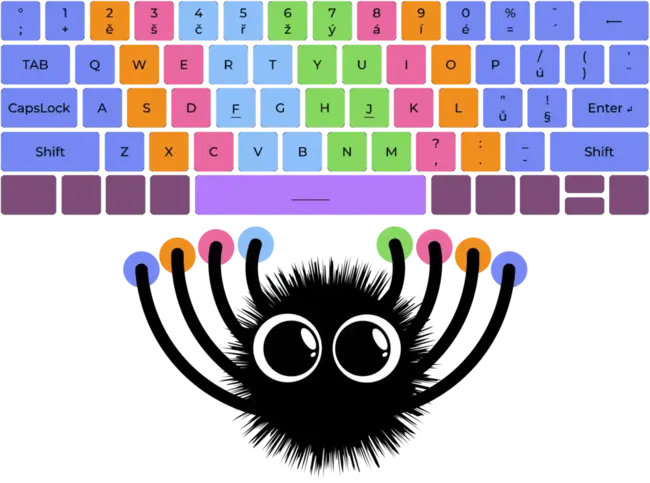
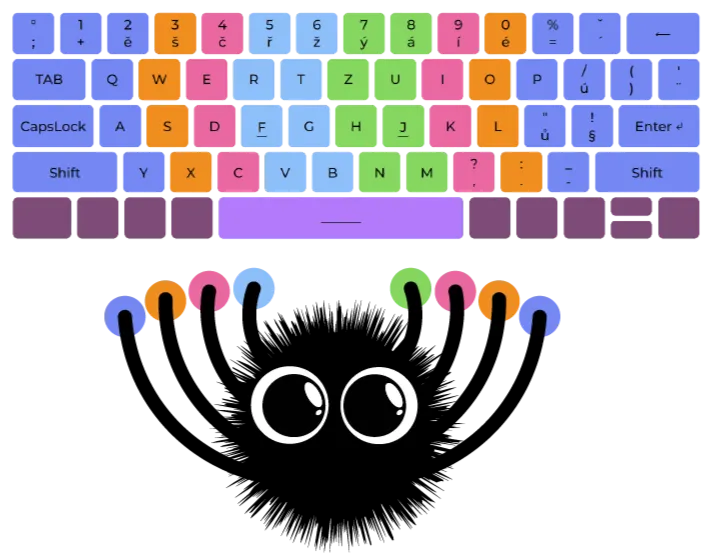
změna layoutu klávesnice, změna kalkulace překlepů

diff --git a/frontend/src/components/Psani.vue b/frontend/src/components/Psani.vue
@@ -21,7 +21,7 @@ const props = defineProps<{
 const counter = ref(0)
 const counterSlov = ref(0)
 const preklepy = ref(0)
-const opravene = new Map<String, Boolean>()
+const opravene = ref(0)
 const timerZacatek = ref(0)
 const cas = ref(0)
 const textElem = ref<HTMLInputElement>()
@@ -40,7 +40,7 @@ let interval: number
 const celyPsani = ref()
 
 const casFormat = computed(() => {
-    return cas.value < 60 ? Math.floor(cas.value).toString() : `${Math.floor(cas.value / 60)}:${cas.value % 60 < 10 ? "0" + Math.floor(cas.value % 60).toString() : Math.floor(cas.value % 60)}`
+    return cas.value < 60 ? Math.floor(cas.value).toString() + "s" : `${Math.floor(cas.value / 60)}:${cas.value % 60 < 10 ? "0" + Math.floor(cas.value % 60).toString() : Math.floor(cas.value % 60)}`
 })
 
 const progress = computed(() => {
@@ -93,13 +93,13 @@ function backPismeno() {
         counter.value = props.text[counterSlov.value].length - 1
         if (aktivniPismeno.value.spatne === 1) {
             preklepy.value--
-            opravene.set(`${counterSlov.value}${counter.value}`, true)
+            opravene.value++
         }
     } else {
         counter.value--
         if (aktivniPismeno.value.spatne === 1) {
             preklepy.value--
-            opravene.set(`${counterSlov.value}${counter.value}`, true)
+            opravene.value++
         }
     }
     emit("pise")
@@ -161,7 +161,7 @@ function klik(this: any, e: KeyboardEvent) {
         calcCas() // naposledy
         document.removeEventListener("keypress", klik)
         document.removeEventListener("keydown", specialniKlik)
-        emit("konec", cas.value, opravene.size, preklepy.value, chybyPismenka)
+        emit("konec", cas.value, opravene.value, preklepy.value, chybyPismenka)
         restart()
     }
 
@@ -278,7 +278,7 @@ function restart() {
     textElem.value!.style.top = "0rem" // reset posunuti
     mistaPosunuti.value = [0, 0]
     chybyPismenka.clear()
-    opravene.clear()
+    opravene.value = 0
 }
 
 function loadZvuk() {
@@ -334,7 +334,7 @@ defineExpose({ restart })
 <template>
     <div id="flex" ref="celyPsani">
         <div id="nabidka">
-            <h2 id="cas">{{ casFormat }}s</h2>
+            <h2 id="cas">{{ casFormat }}</h2>
             <h2 :style="{ visibility: capslock ? 'visible' : 'hidden' }" id="capslock">CapsLock</h2>
             <h2 id="preklepy">Překlepy: {{ preklepy }}</h2>
         </div>

diff --git a/frontend/src/views/Teorie.vue b/frontend/src/views/Teorie.vue
@@ -38,7 +38,7 @@ useHead({
         </div>
     </div>
     <div class="bloky">
-        <img src="../assets/klavesniceSPavoukem.webp" alt="Pavouk s klávesnicí" width="285" height="212">
+        <img src="../assets/klavesniceSPavoukem.webp" alt="Pavouk s klávesnicí" width="300" height="233">
         <div class="text">
             <h2>Co zbytek klávesnice?</h2>
             <p>
@@ -67,11 +67,11 @@ useHead({
             </div>
         </div>
         <a id="npi" href="https://www.npi.cz/statni-tesnopisny-ustav-statni-zkousky" target=”_blank” rel="nofollow">
-            <img src="../assets/npi.webp" alt="Národní pedagogický institut" width="226" height="226">
+            <img src="../assets/npi.webp" alt="Národní pedagogický institut" width="225" height="225">
         </a>
     </div>
     <div class="bloky" id="pohyb">
-        <img src="../assets/sipky.svg" alt="Pavouk s klávesnicí" width="337" height="238">
+        <img src="../assets/sipky.svg" alt="Pavouk s klávesnicí" width="345" height="244">
         <div class="text">
             <h2>Pohyb po Pavoukovi</h2>
             <ul class="mensiPadding" style="list-style: none;">
@@ -104,6 +104,10 @@ useHead({
 <style scoped>
 .bloky {
     height: 350px;
+}
+
+.bloky img {
+    width: 300px;
 }
 
 #pohyb .text {
@@ -176,7 +180,7 @@ ul {
 #npi img {
     border-radius: 1000rem;
     aspect-ratio: 1 / 1;
-    width: 100%;
+    width: 225px;
 }
 
 @media screen and (max-width: 1100px) {

diff --git a/frontend/src/components/Klavesnice.vue b/frontend/src/components/Klavesnice.vue
@@ -25,14 +25,14 @@ let schema = [
 ]
 const delkaKlaves: { [id: string]: number } = { "⟵": 3, "Shift": 1, "Enter ↵": 1, "CapsLock": 1, "TAB": 1, "______": 24, "  ": 2, "Ctrl": 2 }
 const prstoklad: { [id: string]: string[] } = {
-    "P_Ukaz": [barvy[0], "J", "H", "U", "Z", "N", "M", "7ý", "6ž"],
-    "L_Ukaz": [barvy[1], "G", "T", "R", "F", "V", "B", "5ř", "4č"],
-    "P_Pros": [barvy[2], "K", "I", "?,", "8á"],
-    "L_Pros": [barvy[2], "D", "E", "C", "3š"],
-    "P_Prs": [barvy[3], "O", "L", ":.", "9í"],
-    "L_Prs": [barvy[3], "X", "S", "W", "2ě"],
-    "P_Mali": [barvy[4], '"ů', "P", "_-", "0é", '%=', 'ˇ´', '⟵', '()', '/ú', "'¨", '!§', 'Enter ↵', 'Shift'],
-    "L_Mali": [barvy[4], "Shift", "A", "Q", "Y", "1+", "°;", "TAB", "CapsLock", "Ctrl"],
+    "P_Ukaz": [barvy[0], "J", "H", "U", "Z", "N", "M", "7ý", "8á"],
+    "L_Ukaz": [barvy[1], "G", "T", "R", "F", "V", "B", "5ř", "6ž"],
+    "P_Pros": [barvy[2], "K", "I", "?,", "9í"],
+    "L_Pros": [barvy[2], "D", "E", "C", "4č"],
+    "P_Prs": [barvy[3], "O", "L", ":.", "0é"],
+    "L_Prs": [barvy[3], "X", "S", "W", "3š"],
+    "P_Mali": [barvy[4], '"ů', "P", "_-", '%=', 'ˇ´', '⟵', '()', '/ú', "'¨", '!§', 'Enter ↵', 'Shift'],
+    "L_Mali": [barvy[4], "Shift", "A", "Q", "Y", "1+", "°;", "2ě", "TAB", "CapsLock", "Ctrl"],
     "Palce": ["#bc73ff", "______", "Alt"]
 }
 const shiftSviti = ref(false)

diff --git a/frontend/src/App.vue b/frontend/src/App.vue
@@ -137,7 +137,7 @@ nav {
     flex-shrink: 0;
     border-radius: 10px;
     background-color: var(--tmave-fialova);
-    transition: ease-in-out 0.3s;
+    transition: transform ease-in-out 0.3s;
     overflow: hidden;
 }
 
@@ -158,7 +158,7 @@ nav {
 @media screen and (max-width: 1100px) {
     .mobilHidden {
         transform: translateX(-250px);
-        transition: ease-in-out 0.3s;
+        transition: transform ease-in-out 0.3s;
     }
 
     #menuMobilniBtn {
